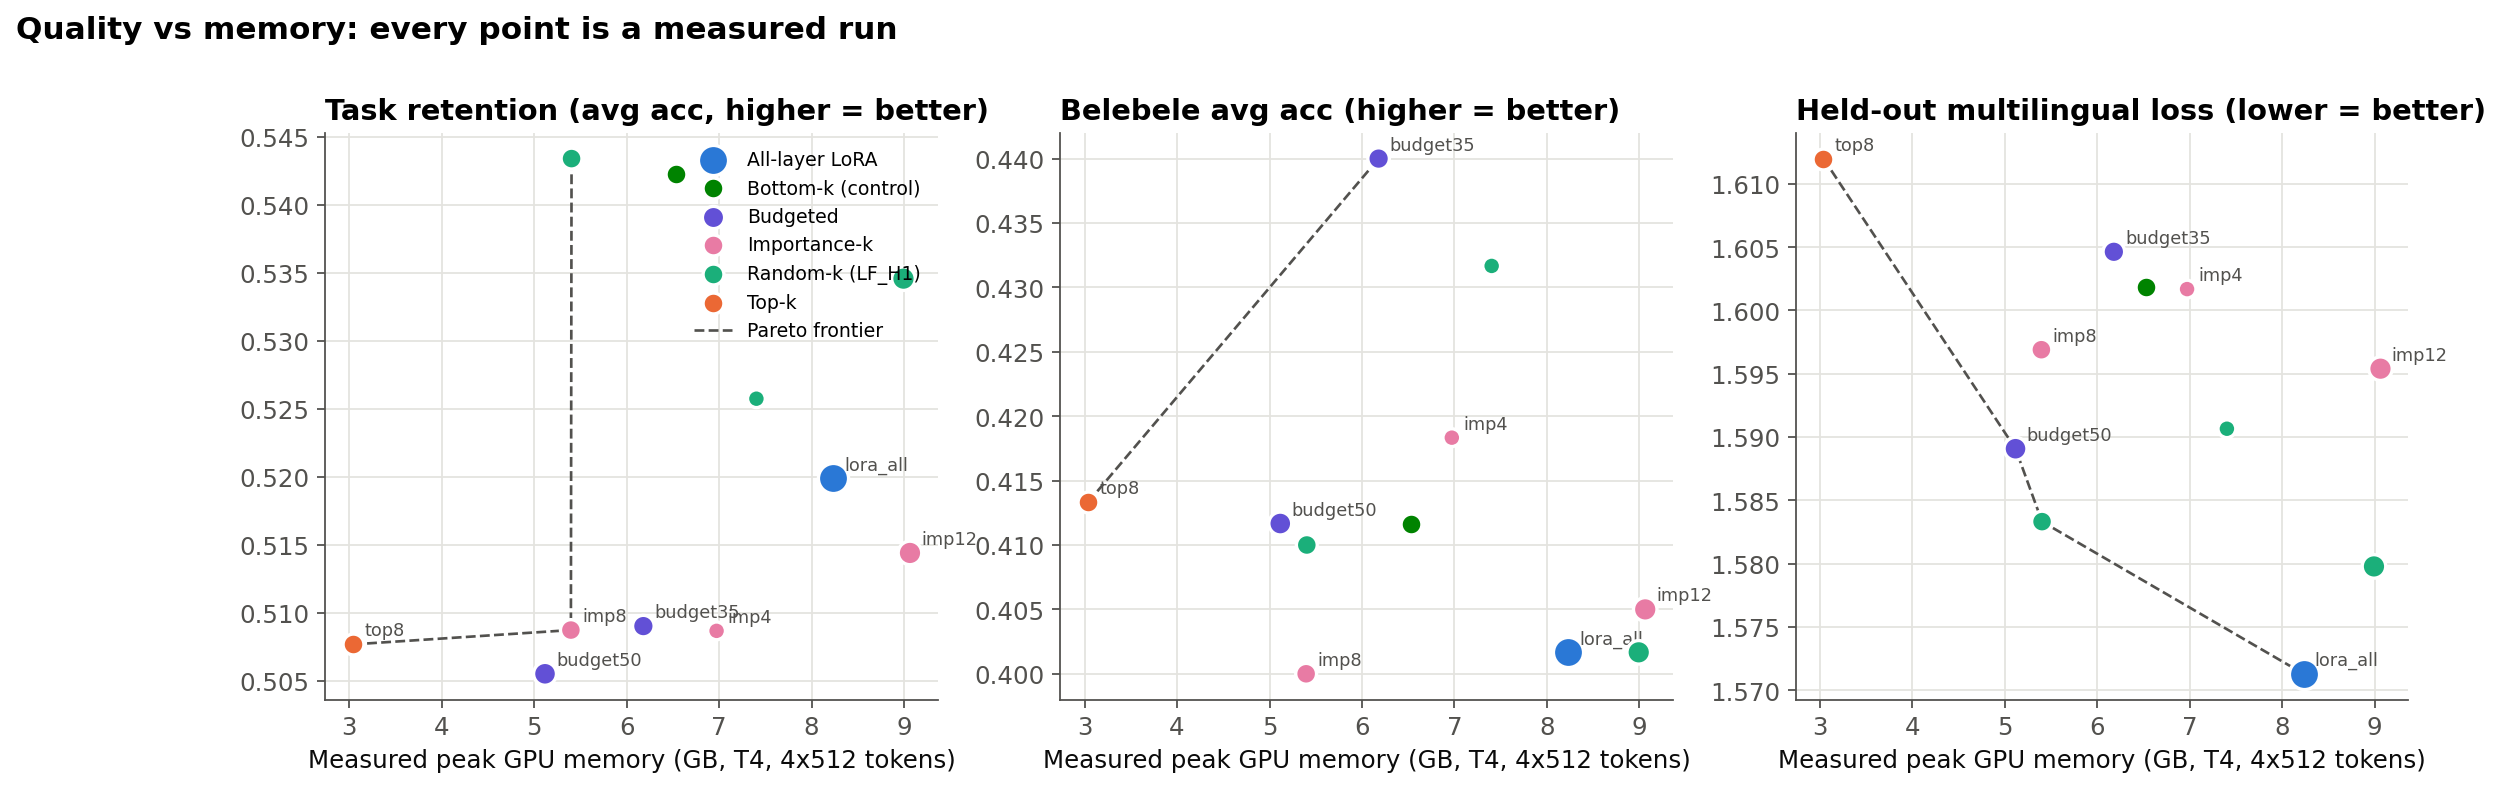
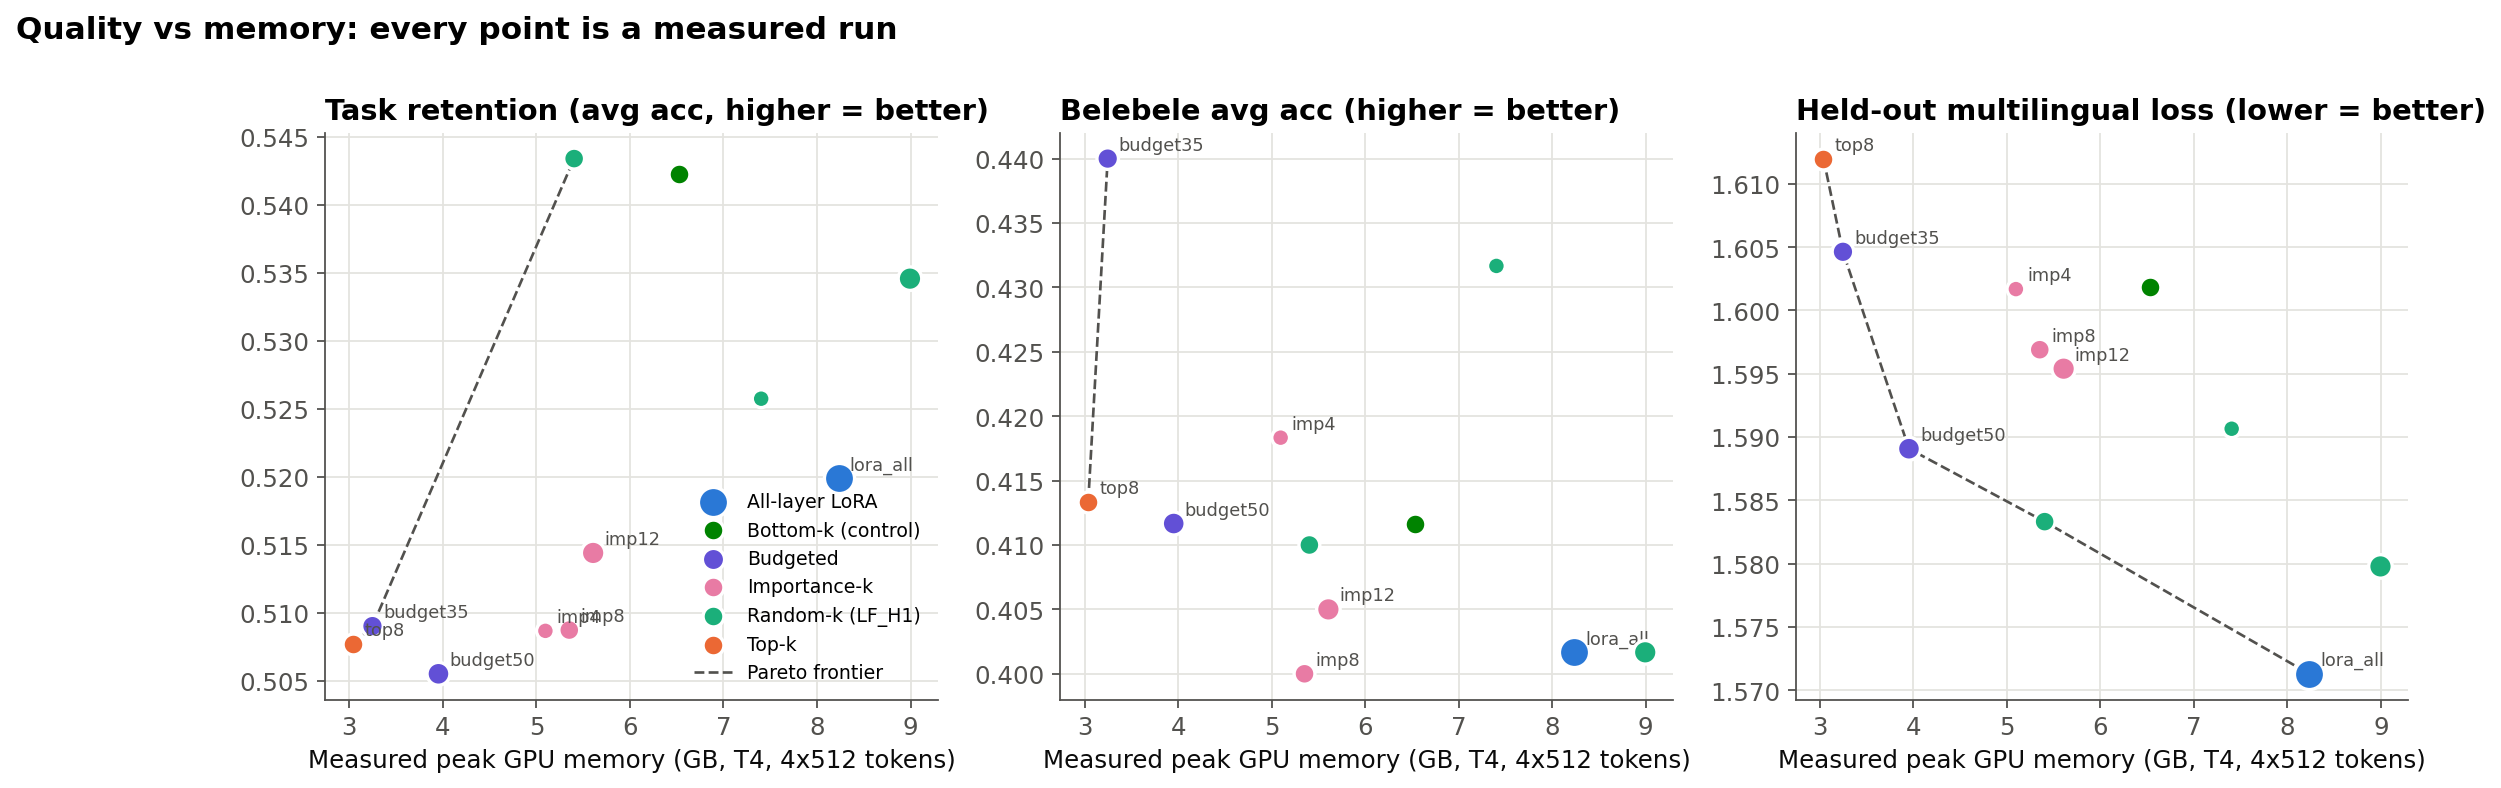
M3: scores, cost model, results, plots

diff --git a/results/summary.md b/results/summary.md
@@ -3,17 +3,17 @@
 | phase1_ref |  | - |  |  |  | 1.793 | 0.5122 | -0.77 | 0.43 | 2.83 |
 | top8_q4_gc | `................########` | NF4+GC+chunk | 0.9509 | -88.4 | 3841 | 1.688 | 0.4861 | -3.38 | 0.36 | -4.17 |
 | top8 | `................########` | chunk | 3.039 | -63.1 | 5822 | 1.612 | 0.5077 | -1.22 | 0.4133 | 1.17 |
+| budget35 | `...............#########` | chunk | 3.247 | -60.6 | 5806 | 1.605 | 0.509 | -1.09 | 0.44 | 3.83 |
+| budget50 | `...........#######.###.#` | chunk | 3.953 | -52 | 5143 | 1.589 | 0.5055 | -1.44 | 0.4117 | 1 |
 | lora_all_q4_gc | `########################` | NF4+GC+chunk | 4.777 | -42 | 1868 |  |  |  |  |  |
-| budget50 | `...........#######.###.#` | chunk | 5.116 | -37.8 | 5143 | 1.589 | 0.5055 | -1.44 | 0.4117 | 1 |
-| imp8 | `#.###....####...........` | chunk | 5.396 | -34.4 | 4675 | 1.597 | 0.5087 | -1.12 | 0.4 | -0.17 |
+| imp4 | `#.#........##...........` | chunk | 5.096 | -38.1 | 5003 | 1.602 | 0.5087 | -1.12 | 0.4183 | 1.67 |
+| imp8 | `#.###....####...........` | chunk | 5.351 | -35 | 4675 | 1.597 | 0.5087 | -1.12 | 0.4 | -0.17 |
 | random8 | `#..##..##..........##.#.` | chunk | 5.403 | -34.4 | 4171 | 1.583 | 0.5434 | 2.35 | 0.41 | 0.83 |
+| imp12 | `#######.#####...........` | chunk | 5.607 | -31.9 | 4248 | 1.595 | 0.5144 | -0.55 | 0.405 | 0.33 |
 | top4 | `....................####` | chunk | 6.134 | -25.5 | 7104 |  |  |  |  |  |
-| budget35 | `...............#########` | chunk | 6.18 | -24.9 | 5806 | 1.605 | 0.509 | -1.09 | 0.44 | 3.83 |
 | bottom8 | `########................` | chunk | 6.53 | -20.7 | 4140 | 1.602 | 0.5423 | 2.24 | 0.4117 | 1 |
-| imp4 | `#.#........##...........` | chunk | 6.972 | -15.3 | 5003 | 1.602 | 0.5087 | -1.12 | 0.4183 | 1.67 |
 | random4 | `#..#................#..#` | chunk | 7.403 | -10.1 | 4495 | 1.591 | 0.5257 | 0.58 | 0.4317 | 3 |
 | top12 | `............############` | chunk | 8.034 | -2.4 | 4896 |  |  |  |  |  |
 | lora_all | `########################` | chunk | 8.232 | 0 | 3331 | 1.571 | 0.5199 | 0 | 0.4017 | 0 |
 | random12 | `#.###.####.........####.` | chunk | 8.994 | 9.3 | 3879 | 1.58 | 0.5346 | 1.47 | 0.4017 | 0 |
-| imp12 | `#######.#####...........` | chunk | 9.065 | 10.1 | 4248 | 1.595 | 0.5144 | -0.55 | 0.405 | 0.33 |
 | lora_all_plain | `########################` | - | 9.41 | 14.3 | 2252 | 1.575 | 0.5154 | -0.45 | 0.405 | 0.33 |
